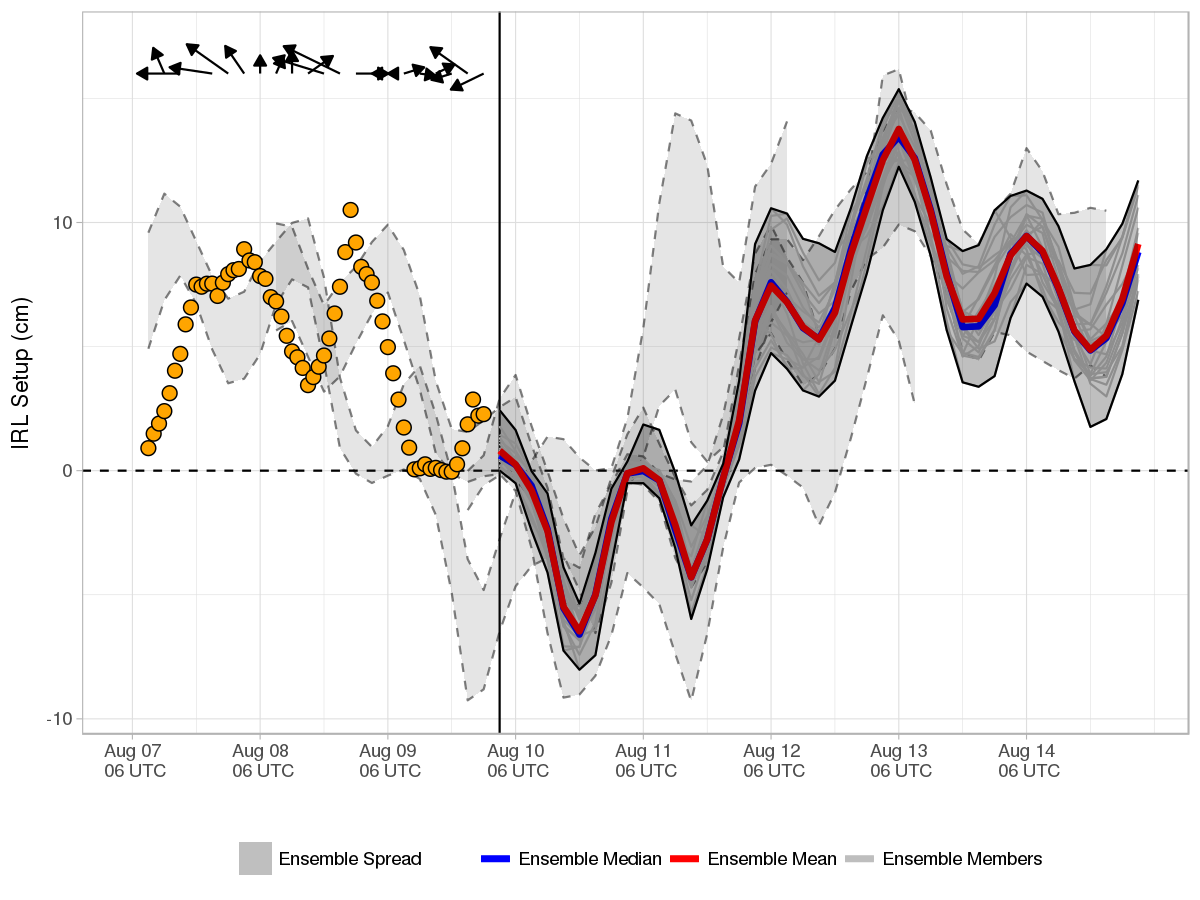
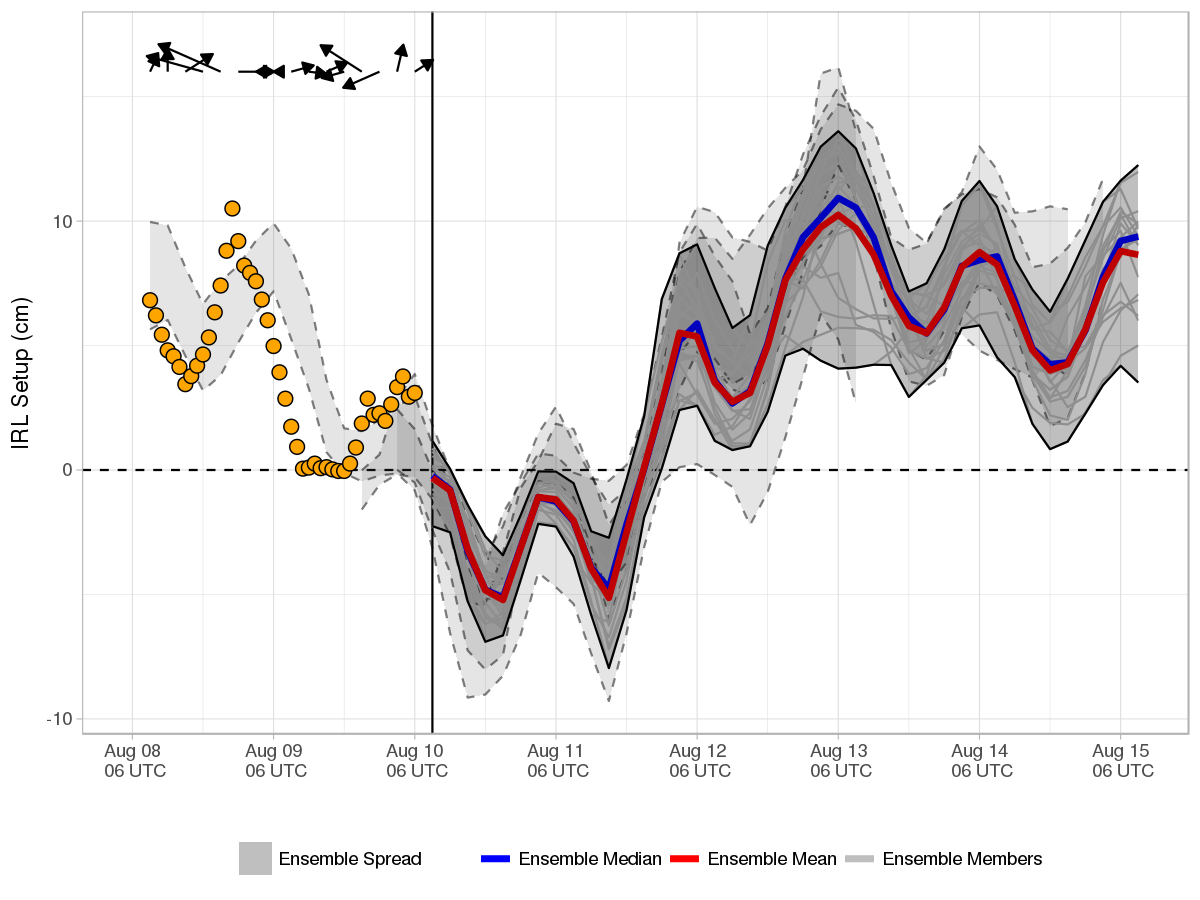
Forecast Update

Changed region(s): [[0.0925, 0.0311, 0.9558, 0.8711], [0.5242, 0.8089, 0.9558, 0.8711], [0.185, 0.8089, 0.2467, 0.8711]]

diff --git a/docs/index.md b/docs/index.md
@@ -1,9 +1,9 @@
-Current Forecast 2018-08-09, Cycle 18UTC
+Current Forecast 2018-08-10, Cycle 00UTC
 ----------------------------------------
 
 [![](img/raw_setup.png)](https://fit-winds.github.io/IRLSetup/img/raw_setup.png)
 
-> Forecast valid 2018-08-09 20:26:20.
+> Forecast valid 2018-08-10 02:26:38.
 
 Explanation
 -----------
@@ -17,7 +17,7 @@ star), and Sebastian, FL (white star). In general, southerly (northerly)
 winds result in increased water elevation near Titusville (Sebastian)
 and positive (negative) setup.
 
-The current cycle 2018-08-09 18UTC 0.5° [Global Ensemble Forecast System
+The current cycle 2018-08-10 00UTC 0.5° [Global Ensemble Forecast System
 (GEFS)](https://www.ncdc.noaa.gov/data-access/model-data/model-datasets/global-ensemble-forecast-system-gefs)
 mean and median forecasts of setup are represented by the red and blue
 curves, respectively. Ensemble spread from the current and three
